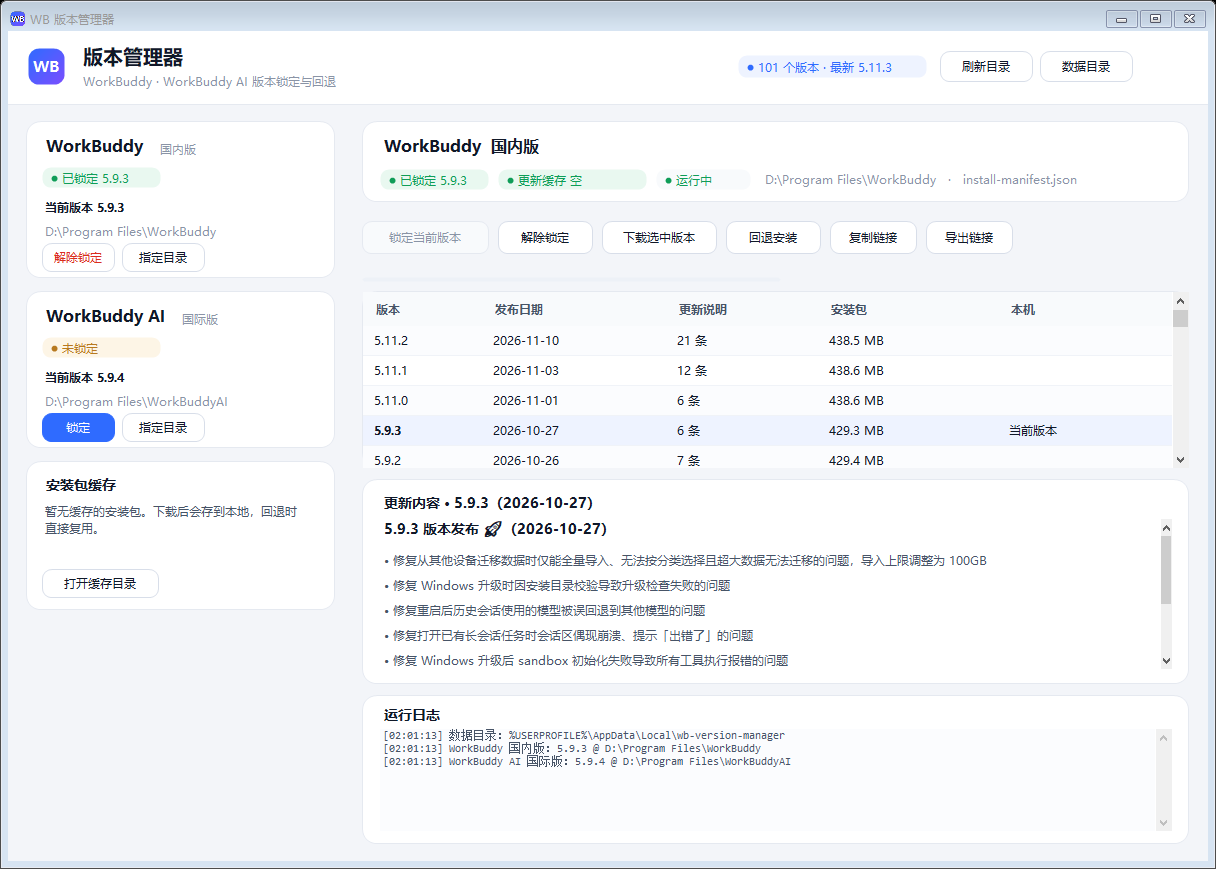
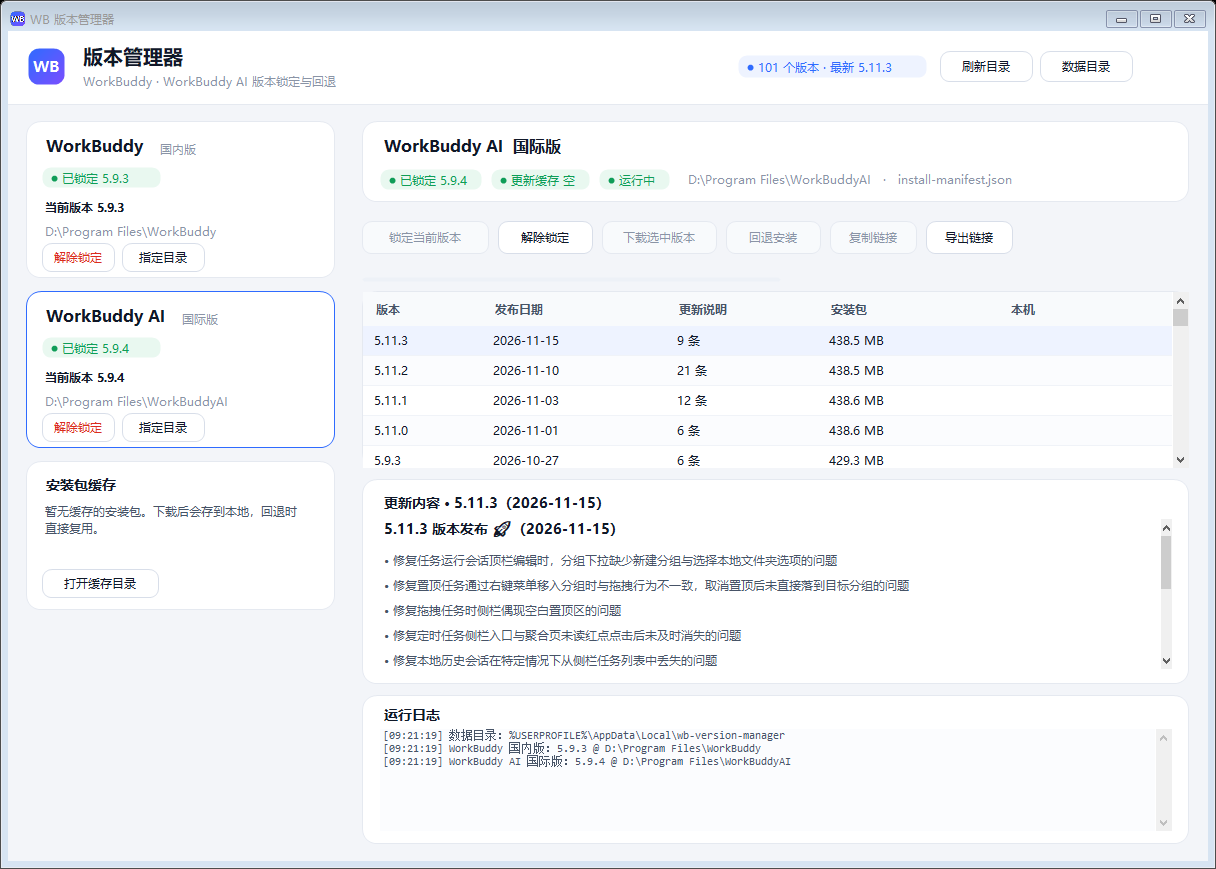
fix: 切换客户端后顶部徽章不刷新 (v1.1.1)
- Badge / FlatButton 是自绘控件，Text 变化不会触发重绘，导致选中 WorkBuddy AI 后
  顶部仍显示国内版的「已锁定 5.9.3 / 更新缓存 空 / 未运行」；补 OnTextChanged → Invalidate
- 徽章宽度改为跟随文字（Badge.AutoWidth），长文案不再被裁切，右侧路径标签按顺序让位
- 「运行中 / 未运行」每 5 秒自动刷新，开或关客户端不必手动点「刷新目录」
- 截图模式支持 WBVM_SELECT 指定要展示的客户端，便于回归验证
- .gitignore 排除运行时备份目录 data/block-backup/

diff --git a/client/src/MainForm.cs b/client/src/MainForm.cs
@@ -72,6 +72,7 @@ namespace WbVm
         private NotesView _notes;
         private Label _notesTitle;
         private TextBox _log;
+        private System.Windows.Forms.Timer _runTimer;
 
         public MainForm()
         {
@@ -79,6 +80,13 @@ namespace WbVm
             BuildUi();
             Load += delegate { TryLoadDiskCatalog(); };
             Shown += async delegate { await ReloadAll(true); };
+
+            // 运行状态是外部事实，界面上自己刷一下，不然开了客户端还显示「未运行」
+            _runTimer = new System.Windows.Forms.Timer();
+            _runTimer.Interval = 5000;
+            _runTimer.Tick += delegate { RefreshRunBadge(); };
+            _runTimer.Start();
+            FormClosed += delegate { if (_runTimer != null) _runTimer.Stop(); };
         }
 
         private void TryLoadDiskCatalog()
@@ -273,16 +281,19 @@ namespace WbVm
             _lockBadge = new Badge();
             _lockBadge.Location = new Point(18, 48);
             _lockBadge.Size = new Size(110, 22);
+            _lockBadge.AutoWidth = true;
             head.Controls.Add(_lockBadge);
 
             _cacheBadge = new Badge();
             _cacheBadge.Location = new Point(136, 48);
             _cacheBadge.Size = new Size(150, 22);
+            _cacheBadge.AutoWidth = true;
             head.Controls.Add(_cacheBadge);
 
             _runBadge = new Badge();
             _runBadge.Location = new Point(294, 48);
             _runBadge.Size = new Size(96, 22);
+            _runBadge.AutoWidth = true;
             head.Controls.Add(_runBadge);
 
             _appSub = new Label();
@@ -641,6 +652,46 @@ namespace WbVm
             FillGrid();
         }
 
+        /// <summary>开发用：截图时指定要展示的客户端</summary>
+        public void DevSelect(string appId)
+        {
+            if (Apps.ById(appId) != null) SelectApp(appId);
+        }
+
+        /// <summary>只刷「运行中 / 未运行」这一枚徽章，5 秒一次</summary>
+        private void RefreshRunBadge()
+        {
+            if (_runBadge == null || _runBadge.IsDisposed) return;
+            bool running = Detector.IsRunning(_selectedApp);
+            _runBadge.Text = running ? "运行中" : "未运行";
+            _runBadge.FillColor = running ? Palette.GreenSoft : Palette.BgSoft;
+            _runBadge.TextColor = running ? Palette.Green : Palette.Muted;
+            _runBadge.DotColor = running ? Palette.Green : Palette.Muted;
+            _runBadge.FitWidth();
+            LayoutBadges();
+        }
+
+        /// <summary>三枚徽章宽度随文字变化，按顺序重排，路径标签跟着让位</summary>
+        private void LayoutBadges()
+        {
+            if (_lockBadge == null || _lockBadge.Parent == null) return;
+            Badge[] list = new Badge[] { _lockBadge, _cacheBadge, _runBadge };
+            int x = 18;
+            for (int i = 0; i < list.Length; i++)
+            {
+                if (list[i] == null) continue;
+                list[i].Location = new Point(x, 48);
+                x += list[i].Width + 8;
+            }
+            if (_appSub != null)
+            {
+                Control head = _lockBadge.Parent;
+                int w = head.ClientSize.Width - x - 6 - 12;
+                _appSub.Left = x + 6;
+                _appSub.Width = Math.Max(120, w);
+            }
+        }
+
         private void FillGrid()
         {
             AppDef app = Apps.ById(_selectedApp);
@@ -682,11 +733,8 @@ namespace WbVm
             _cacheBadge.TextColor = st != null && st.CacheBlocked ? Palette.Green : Palette.Text2;
             _cacheBadge.DotColor = st != null && st.CacheBlocked ? Palette.Green : Palette.Muted;
 
-            bool running = Detector.IsRunning(_selectedApp);
-            _runBadge.Text = running ? "运行中" : "未运行";
-            _runBadge.FillColor = Palette.BgSoft;
-            _runBadge.TextColor = running ? Palette.Green : Palette.Muted;
-            _runBadge.DotColor = running ? Palette.Green : Palette.Muted;
+            RefreshRunBadge();
+            LayoutBadges();
 
             _btnLock.Text = "锁定当前版本";
 

diff --git a/client/src/Theme.cs b/client/src/Theme.cs
@@ -154,6 +154,7 @@ namespace WbVm
         protected override void OnMouseDown(MouseEventArgs e) { if (e.Button == MouseButtons.Left) { _down = true; Invalidate(); } base.OnMouseDown(e); }
         protected override void OnMouseUp(MouseEventArgs e) { _down = false; Invalidate(); base.OnMouseUp(e); }
         protected override void OnEnabledChanged(EventArgs e) { Invalidate(); base.OnEnabledChanged(e); }
+        protected override void OnTextChanged(EventArgs e) { Invalidate(); base.OnTextChanged(e); }
 
         protected override void OnPaint(PaintEventArgs e)
         {
@@ -203,6 +204,8 @@ namespace WbVm
         public Color TextColor = Palette.Accent;
         public Color DotColor = Color.Empty;
         public int Radius = 8;
+        /// <summary>宽度跟随文字，避免长文本被裁掉</summary>
+        public bool AutoWidth;
 
         public Badge()
         {
@@ -210,6 +213,25 @@ namespace WbVm
             BackColor = Color.Transparent;
             Font = UiFont.Small;
             Height = 22;
+        }
+
+        // 自绘控件必须自己响应 Text 变化，否则文字只在首次绘制时正确
+        protected override void OnTextChanged(EventArgs e)
+        {
+            FitWidth();
+            Invalidate();
+            base.OnTextChanged(e);
+        }
+
+        public void FitWidth()
+        {
+            if (!AutoWidth) return;
+            string t = string.IsNullOrEmpty(Text) ? " " : Text;
+            Size sz = TextRenderer.MeasureText(t, Font, new Size(int.MaxValue, int.MaxValue),
+                TextFormatFlags.NoPadding | TextFormatFlags.SingleLine);
+            int w = 9 + 11 + sz.Width + 8;
+            if (w < 40) w = 40;
+            if (w != Width) Width = w;
         }
 
         protected override void OnPaint(PaintEventArgs e)

diff --git a/client/src/Program.cs b/client/src/Program.cs
@@ -88,6 +88,12 @@ namespace WbVm
                         timer.Stop();
                         try
                         {
+                            string sel = Environment.GetEnvironmentVariable("WBVM_SELECT");
+                            if (!string.IsNullOrEmpty(sel))
+                            {
+                                form.DevSelect(sel);
+                                Application.DoEvents();
+                            }
                             using (Bitmap bmp = new Bitmap(form.Width, form.Height))
                             {
                                 form.DrawToBitmap(bmp, new Rectangle(0, 0, form.Width, form.Height));
